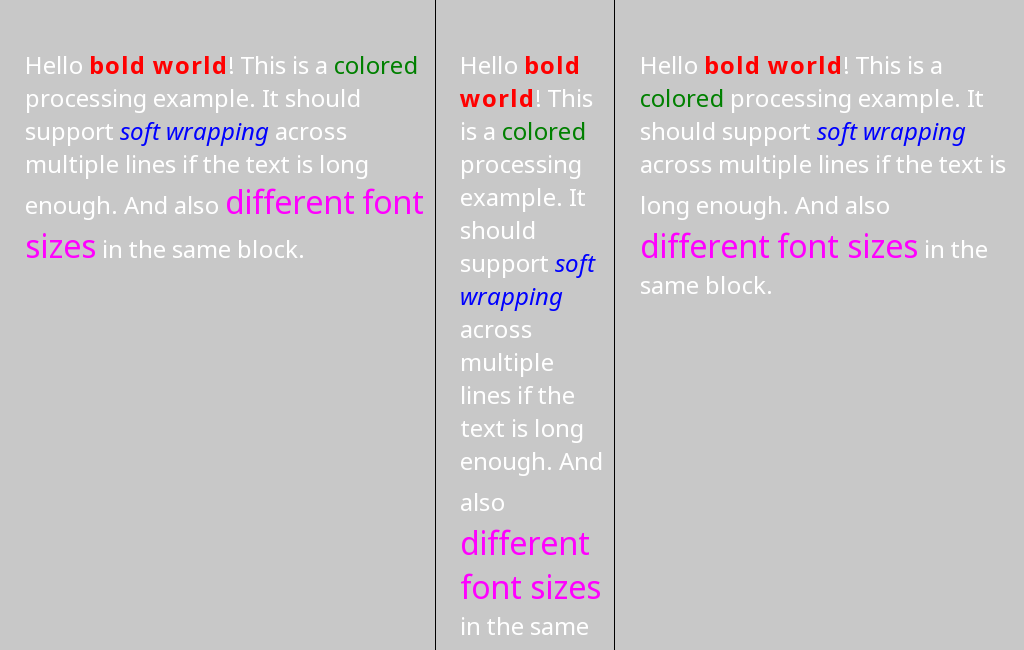
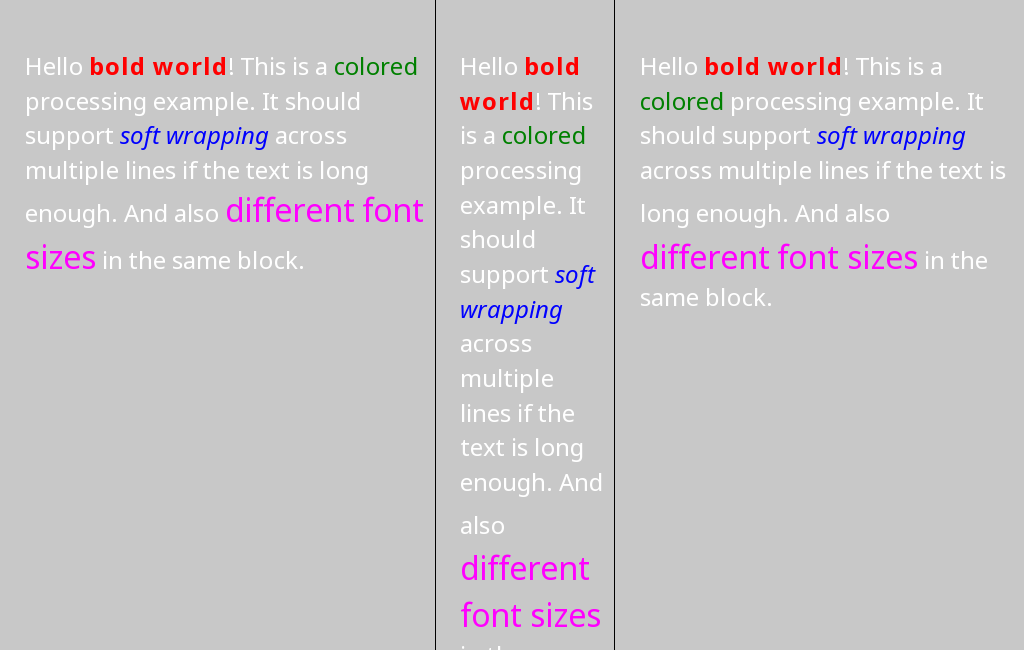
Correctly vertically align text spans of different sizes in RichText.

diff --git a/src/eepp/graphics/richtext.cpp b/src/eepp/graphics/richtext.cpp
@@ -479,22 +479,25 @@ void RichText::updateLayout() {
 			}
 		}
 
+		Float maxLineHeight = 0;
 		for ( auto& span : line.spans ) {
 			if ( auto pText = std::get_if<std::shared_ptr<Text>>( &span.block ) ) {
 				auto& textBlock = *pText;
-				Float ascent = textBlock->getFont()->getAscent( textBlock->getCharacterSize() );
-				Float offsetY = line.maxAscent - ascent;
+				Float offsetY = line.maxAscent - textBlock->getCharacterSize();
 				span.position.x += xOffset;
 				span.position.y = offsetY;
+				maxLineHeight = std::max( maxLineHeight, offsetY + span.size.getHeight() );
 			} else {
-				Float offsetY = line.height - span.size.getHeight();
+				Float offsetY = line.maxAscent - span.size.getHeight();
 				if ( offsetY < 0 )
 					offsetY = 0;
 				span.position.x += xOffset;
 				span.position.y = offsetY;
+				maxLineHeight = std::max( maxLineHeight, offsetY + span.size.getHeight() );
 			}
 		}
 
+		line.height = std::max( line.height, maxLineHeight );
 		curY += line.height;
 	}
 

diff --git a/src/tests/unit_tests/richtext.cpp b/src/tests/unit_tests/richtext.cpp
@@ -178,11 +178,10 @@ UTEST( RichText, BaselineAlignment ) {
 	// Large span should be at the top of the line (offset 0 relative to ascent difference)
 	// Small span should be pushed down
 	Float largeAscent = font->getAscent( 30 );
-	Float smallAscent = font->getAscent( 12 );
 
 	// Expected offsets
-	Float expectedLargeY = 0; // maxAscent - largeAscent = 0
-	Float expectedSmallY = largeAscent - smallAscent;
+	Float expectedLargeY = largeAscent - 30;
+	Float expectedSmallY = largeAscent - 12;
 
 	EXPECT_NEAR( largeSpan.position.y, expectedLargeY, 0.001f );
 	EXPECT_NEAR( smallSpan.position.y, expectedSmallY, 0.001f );
